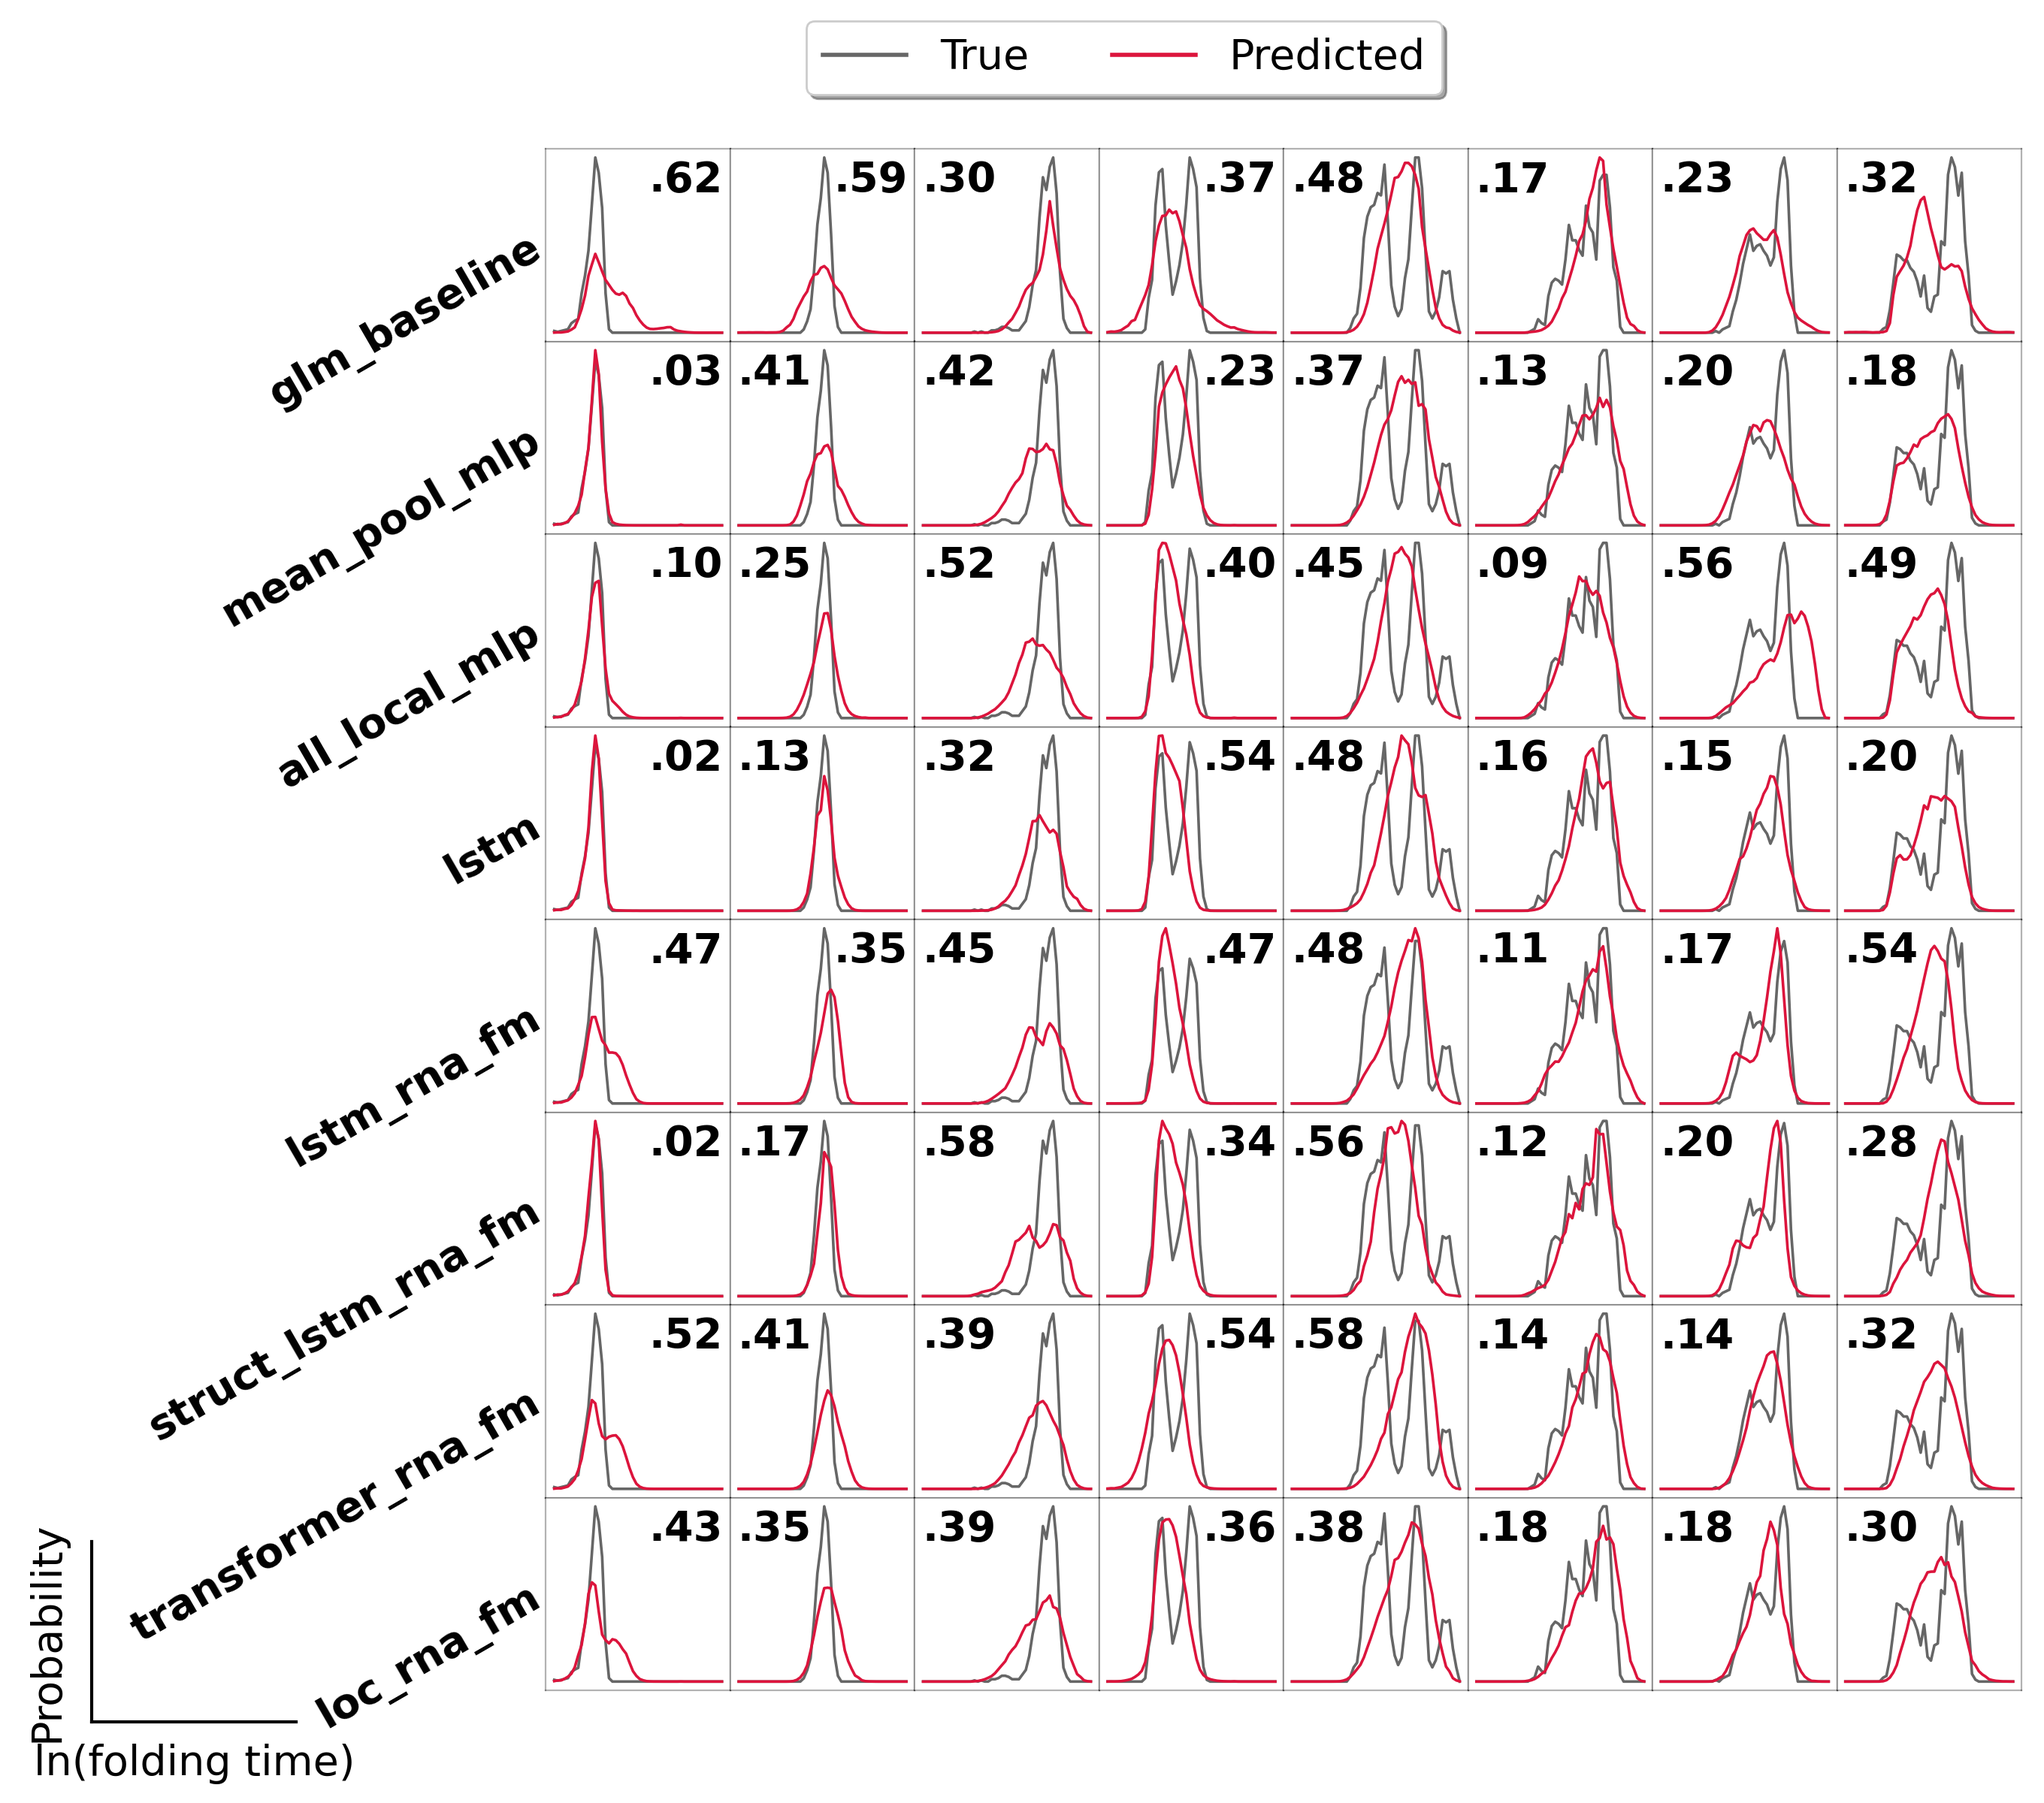
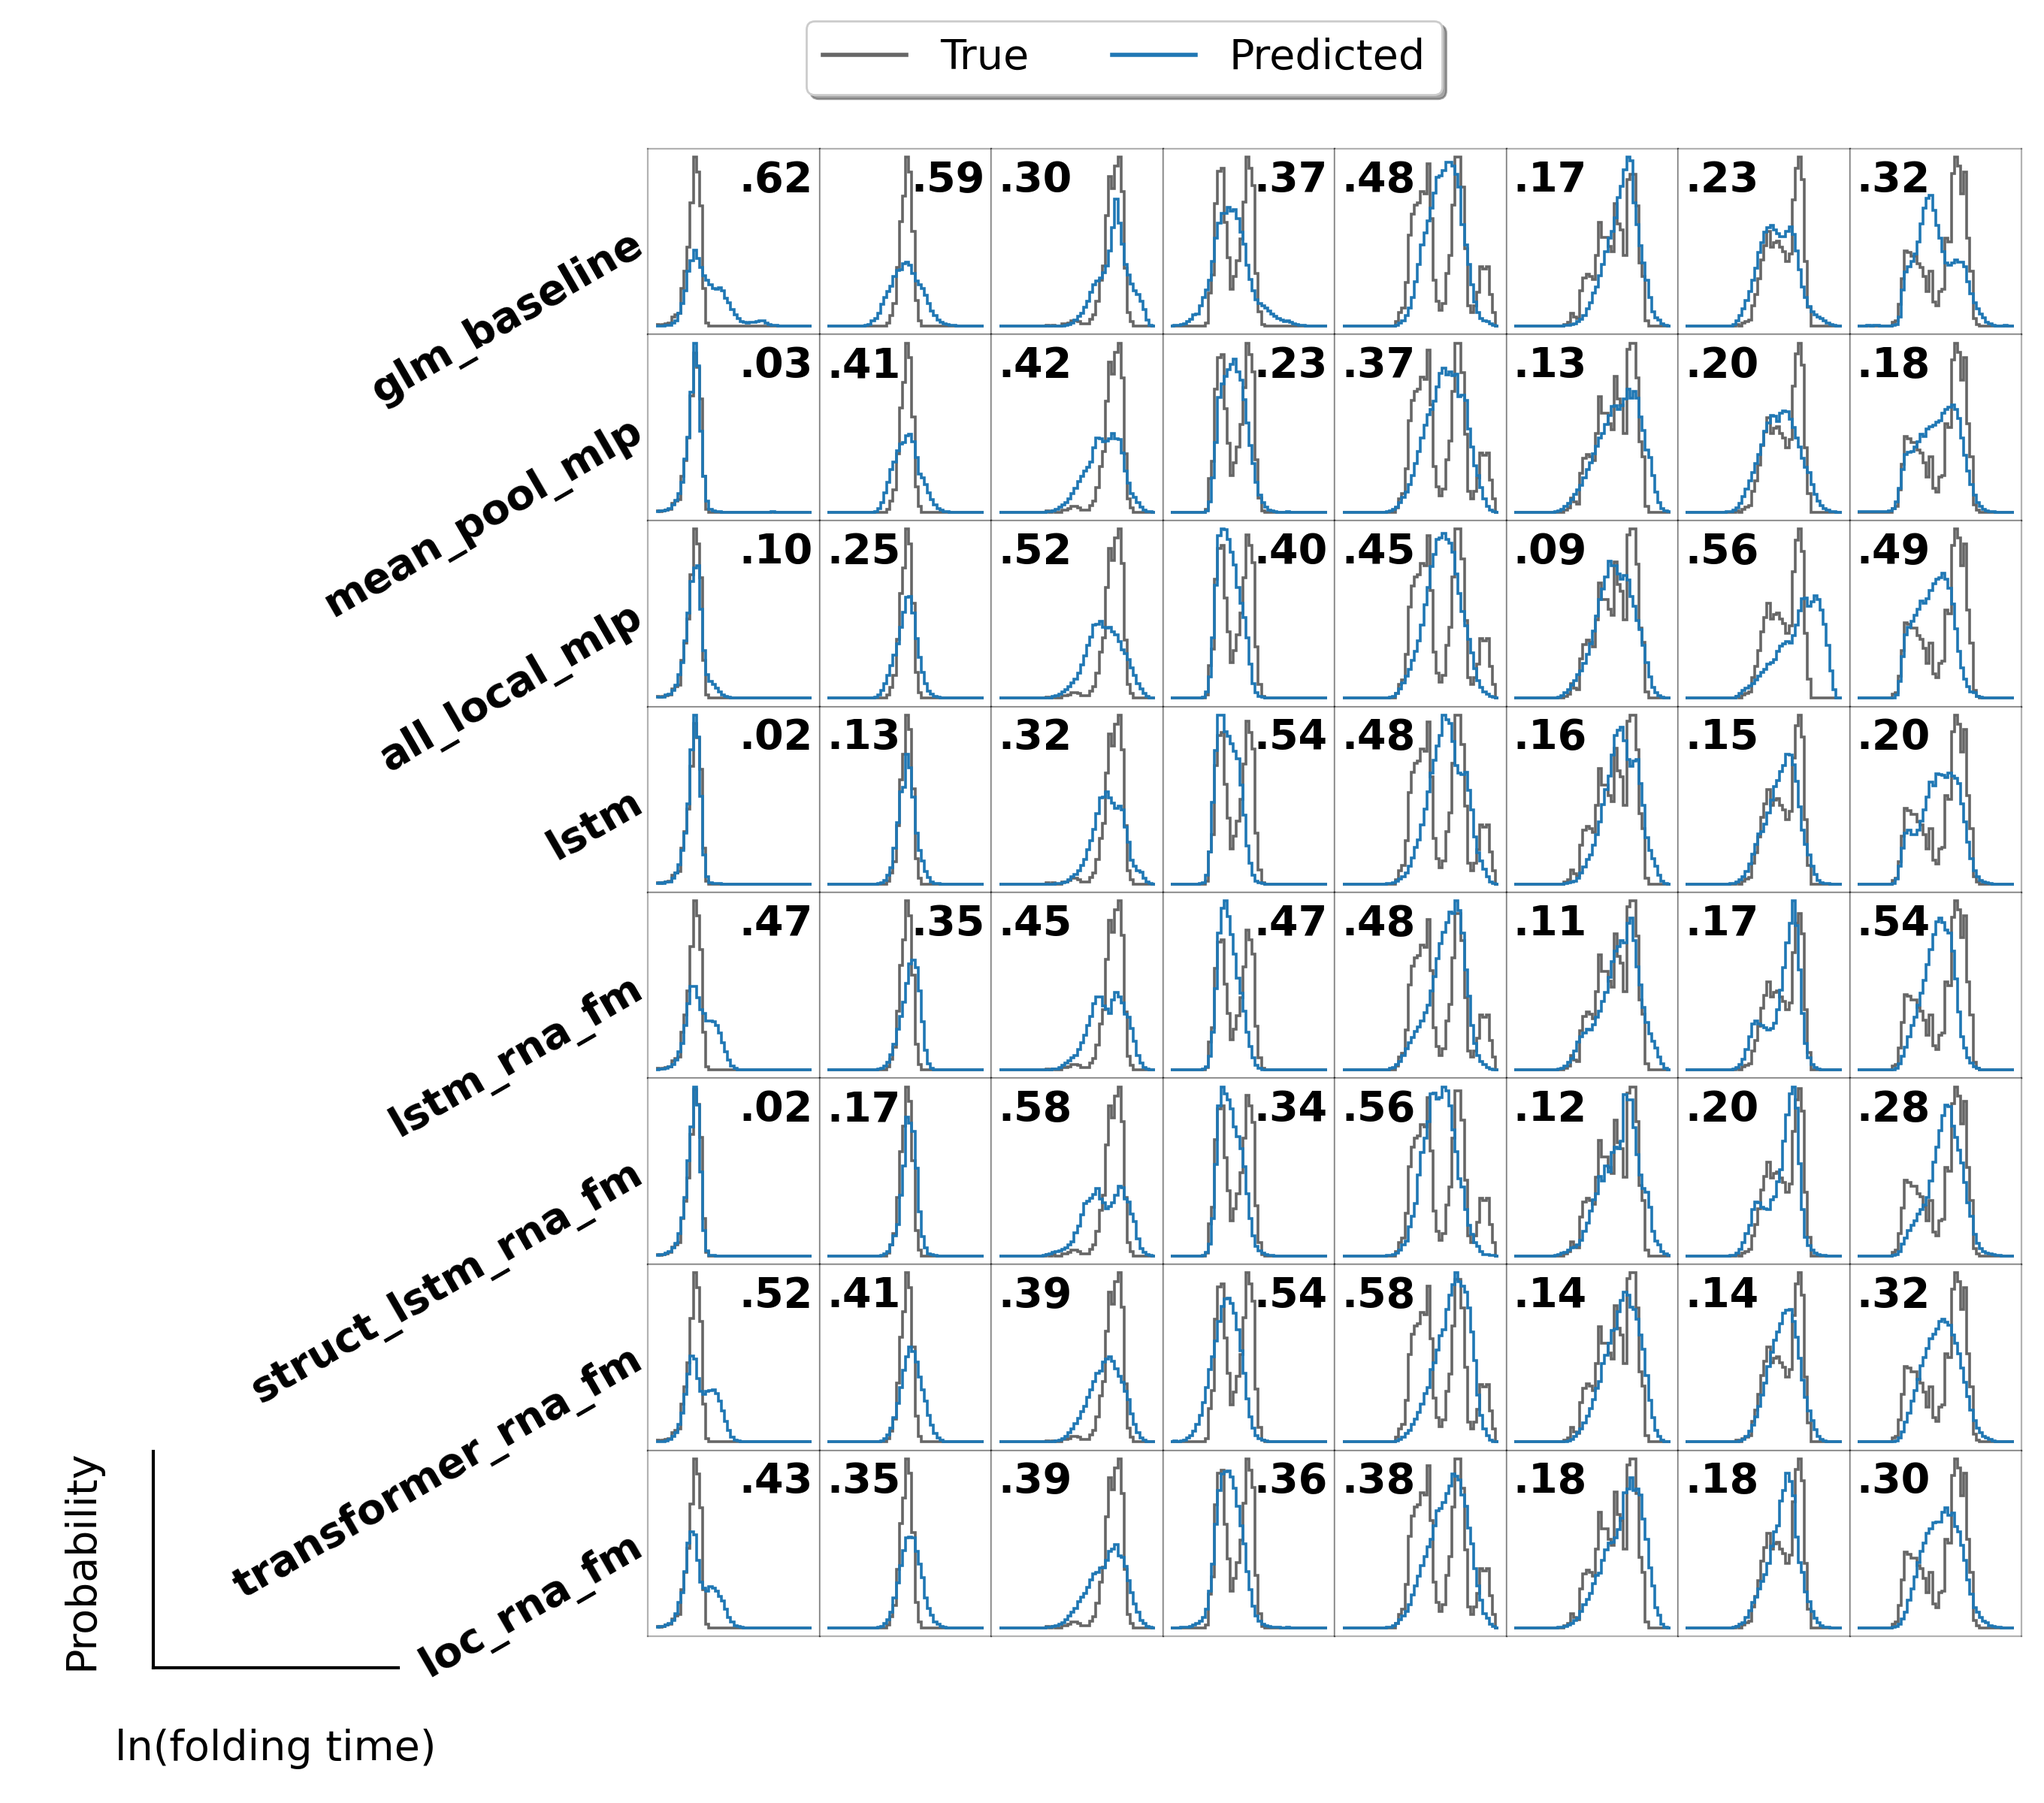
balls

diff --git a/modular_setup_improved_optimized/example_grid.py b/modular_setup_improved_optimized/example_grid.py
@@ -107,6 +107,7 @@ if __name__ == "__main__":
         )
         if bin_centers is None:
             bin_centers = (data.bin_edges[:-1] + data.bin_edges[1:]) / 2
+            bin_edges = data.bin_edges
 
         static_dim = data.train.static_features.shape[1]
         output_dim = data.train.targets.shape[1]
@@ -136,8 +137,8 @@ if __name__ == "__main__":
             ax = axes[row, col]
             pred, kl = preds_by_model[name][idx]
             true = true_dists[idx]
-            ax.plot(bin_centers, true, color="black", linewidth=1.3, alpha=0.6)
-            ax.plot(bin_centers, pred, color="crimson", linewidth=1.3)
+            ax.stairs(true, bin_edges, color="black", linewidth=1.3, alpha=0.6, baseline=None)
+            ax.stairs(pred, bin_edges, color="#1f77b4", linewidth=1.3, baseline=None)
             ax.set_xticks([])
             ax.set_yticks([])
             for spine in ax.spines.values():
@@ -158,21 +159,21 @@ if __name__ == "__main__":
 
     legend_handles = [
         mlines.Line2D([], [], color="black", alpha=0.6, linewidth=2, label="True"),
-        mlines.Line2D([], [], color="crimson", linewidth=2, label="Predicted"),
+        mlines.Line2D([], [], color="#1f77b4", linewidth=2, label="Predicted"),
     ]
     fig.legend(
         handles=legend_handles, loc="upper center", bbox_to_anchor=(0.55, 1.0),
         ncol=2, fontsize=20, frameon=True, shadow=True,
     )
 
-    plt.tight_layout(rect=[0.05, 0.05, 1, 0.93])
+    plt.tight_layout(rect=[0.1, 0.08, 1, 0.93])
     fig.subplots_adjust(wspace=0, hspace=0)
 
     # L-shaped axis indicator (bottom-left corner), matching the hand sketch:
     # a vertical arm labeled "Probability" and a horizontal arm labeled
     # "ln(folding time)" meeting at a right angle.
-    corner_x, corner_y = 0.045, 0.045
-    arm_len = 0.10
+    corner_x, corner_y = 0.075, 0.075
+    arm_len = 0.12
     fig.add_artist(mlines.Line2D(
         [corner_x, corner_x], [corner_y, corner_y + arm_len],
         transform=fig.transFigure, color="black", linewidth=1.5,
@@ -182,12 +183,12 @@ if __name__ == "__main__":
         transform=fig.transFigure, color="black", linewidth=1.5,
     ))
     fig.text(
-        corner_x - 0.012, corner_y + arm_len / 2, "Probability",
-        va="center", ha="right", rotation=90, fontsize=20,
+        corner_x - 0.035, corner_y + arm_len / 2, "Probability",
+        va="center", ha="center", rotation=90, fontsize=20,
     )
     fig.text(
-        corner_x + arm_len / 2, corner_y - 0.012, "ln(folding time)",
-        va="top", ha="center", fontsize=20,
+        corner_x + arm_len / 2, corner_y - 0.045, "ln(folding time)",
+        va="center", ha="center", fontsize=20,
     )
     out_path = BASE_DIR / "results" / "example_grid.png"
     fig.savefig(out_path, dpi=200)
